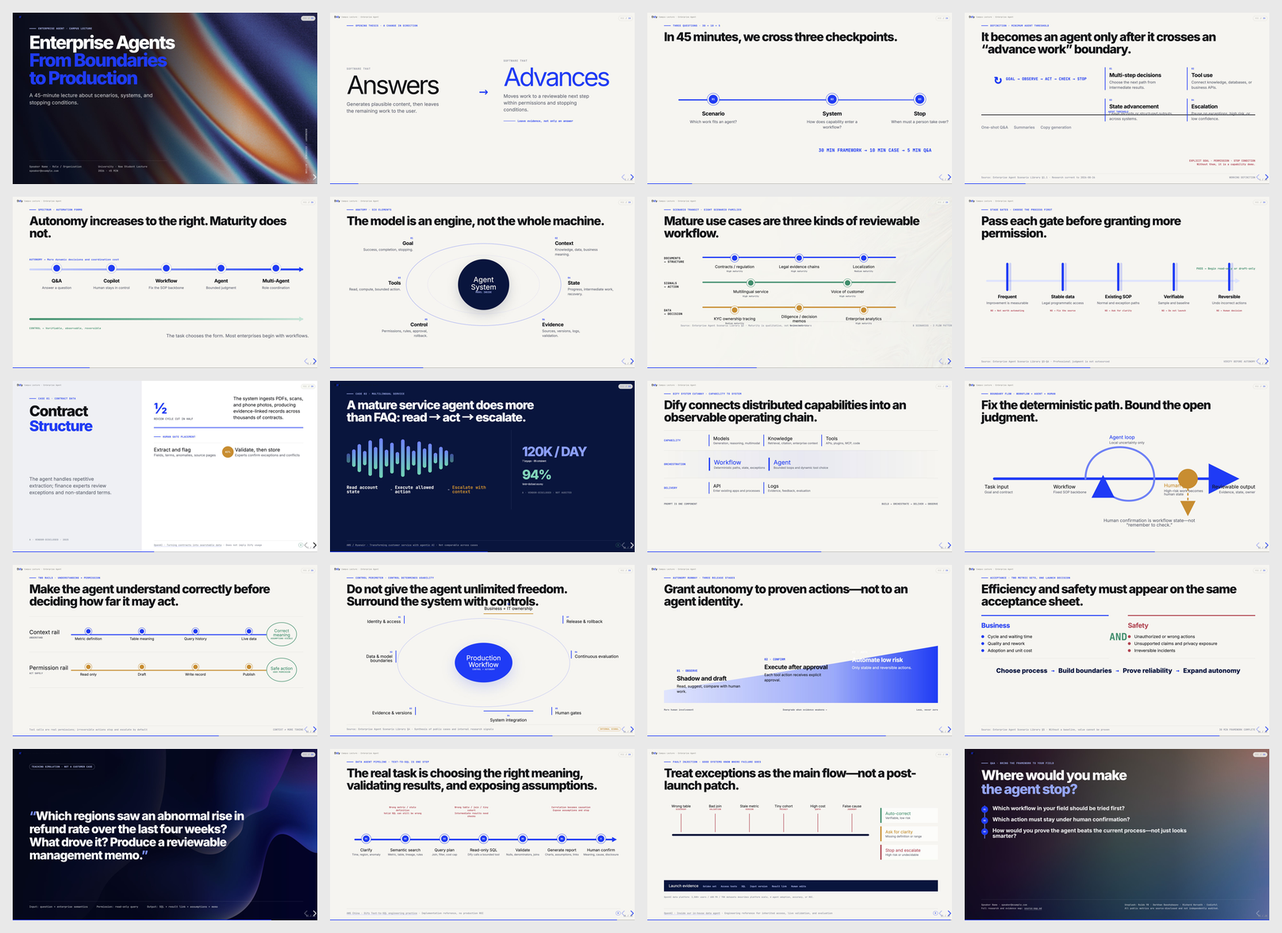
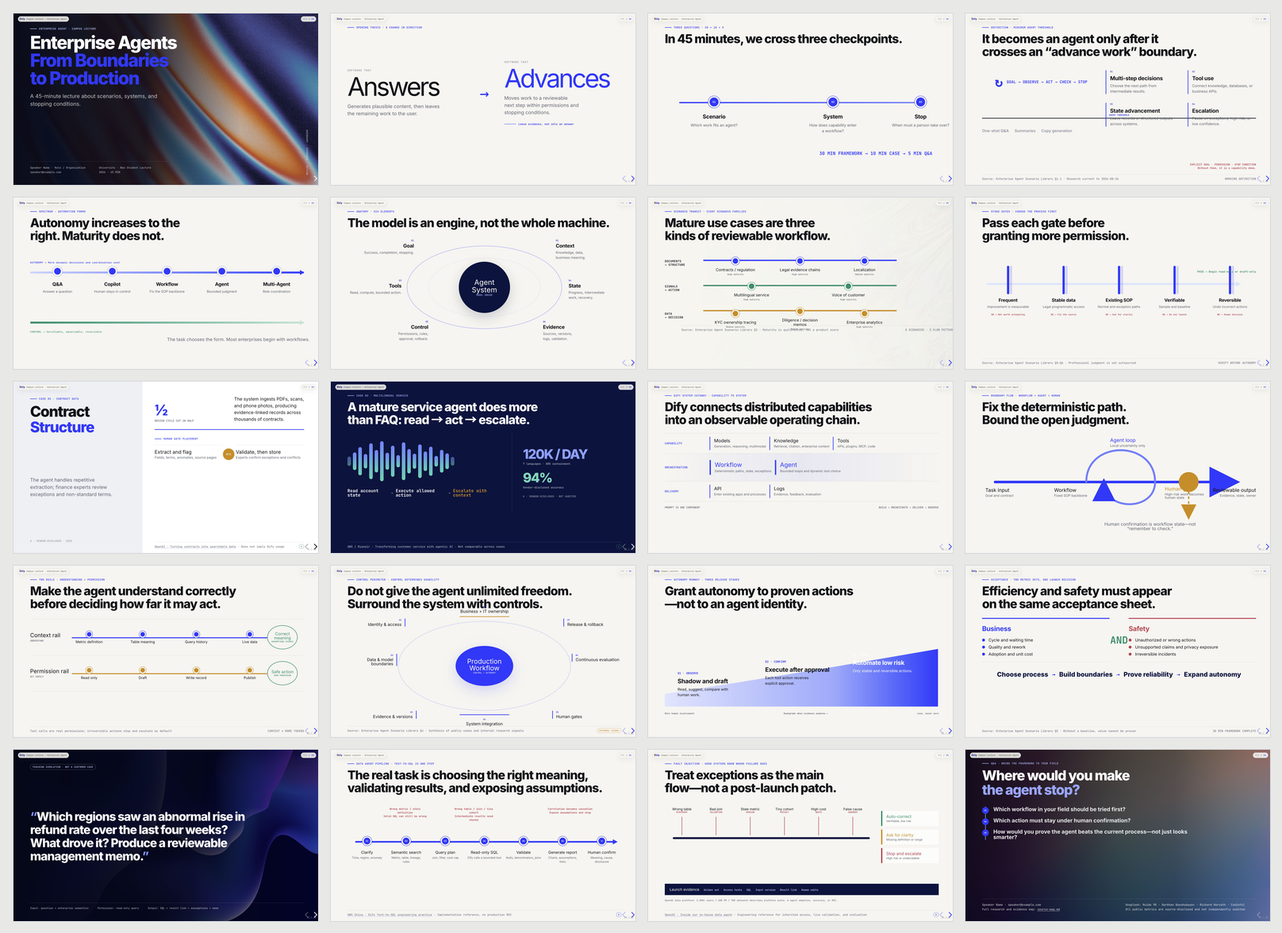
Polish enterprise agent lecture UI and motion

diff --git a/enterprise-agent-campus/styles.css b/enterprise-agent-campus/styles.css
@@ -14,47 +14,62 @@
   --red: #c13a4f;
   --mono: "JetBrains Mono", ui-monospace, monospace;
   --sans: "Inter", "Noto Sans SC", system-ui, sans-serif;
+  --ease-out: cubic-bezier(.22, 1, .36, 1);
+  --page-x: 104px;
+  --page-top: 84px;
+  --page-bottom: 72px;
 }
 
 * { box-sizing: border-box; }
 html, body { width: 100%; height: 100%; margin: 0; overflow: hidden; background: var(--paper); }
-body { font-family: var(--sans); }
+body {
+  font-family: var(--sans);
+  font-feature-settings: "kern" 1, "liga" 1, "calt" 1;
+  -webkit-font-smoothing: antialiased;
+  text-rendering: optimizeLegibility;
+}
 a { color: inherit; }
 
 .deck-brand, .lang-switch {
-  position: fixed; z-index: 40; top: 20px; display: flex; align-items: center; gap: 10px;
-  font: 11px/1 var(--mono); letter-spacing: .04em; color: rgba(17, 19, 24, .56);
+  position: fixed; z-index: 40; top: 22px; display: flex; align-items: center; gap: 10px;
+  border: 1px solid rgba(17,19,24,.12); border-radius: 999px;
+  background: rgba(246,245,240,.88); box-shadow: 0 8px 30px rgba(7,21,64,.06);
+  backdrop-filter: blur(16px); -webkit-backdrop-filter: blur(16px);
+  font: 600 12px/1 var(--mono); letter-spacing: .035em; color: rgba(17, 19, 24, .64);
 }
-.deck-brand { left: 28px; }
-.deck-brand img { width: 34px; height: auto; }
-.lang-switch { right: 28px; padding: 9px 12px; border: 1px solid var(--line); border-radius: 999px; background: rgba(246,245,240,.84); backdrop-filter: blur(14px); }
+.deck-brand { left: 28px; padding: 8px 13px 8px 10px; }
+.deck-brand img { width: 32px; height: 16px; object-fit: contain; }
+.lang-switch { right: 28px; padding: 10px 13px; }
 .lang-switch a { text-decoration: none; opacity: .48; }
 .lang-switch a.active { opacity: 1; color: var(--blue); }
 
 .reveal { color: var(--ink); font-family: var(--sans); }
 .reveal .slides { text-align: left; }
-.reveal .slides section { width: 1920px; height: 1080px; padding: 74px 104px 70px; overflow: hidden; background: var(--paper); }
+.reveal .slides section { width: 1920px; height: 1080px; padding: var(--page-top) var(--page-x) var(--page-bottom); overflow: hidden; background: var(--paper); }
 .reveal h1, .reveal h2, .reveal h3, .reveal p, .reveal blockquote { margin: 0; color: inherit; font-family: var(--sans); text-transform: none; text-shadow: none; }
-.reveal h1 { font-size: 104px; line-height: .98; font-weight: 780; letter-spacing: -.058em; }
-.reveal h2 { max-width: 1640px; font-size: 76px; line-height: 1.02; font-weight: 760; letter-spacing: -.048em; }
-.reveal h3 { font-size: 34px; line-height: 1.12; font-weight: 700; letter-spacing: -.025em; }
-.reveal p { font-size: 30px; line-height: 1.42; }
+.reveal h1 { font-size: 104px; line-height: 1.01; font-weight: 780; letter-spacing: -.048em; text-wrap: balance; }
+.reveal h2 { max-width: 1640px; font-size: 76px; line-height: 1.06; font-weight: 760; letter-spacing: -.04em; text-wrap: balance; }
+.reveal h3 { font-size: 34px; line-height: 1.18; font-weight: 700; letter-spacing: -.018em; text-wrap: balance; }
+.reveal p { font-size: 30px; line-height: 1.5; text-wrap: pretty; }
 .reveal .blue { color: var(--blue); }
 .reveal .green { color: var(--green); }
 .reveal .amber { color: var(--amber); }
 .reveal .red { color: var(--red); }
 .reveal .muted { color: var(--muted); }
 
-.eyebrow { display: flex; align-items: center; gap: 14px; margin-bottom: 24px; color: var(--blue); font: 700 15px/1 var(--mono); letter-spacing: .08em; text-transform: uppercase; }
+.eyebrow { display: flex; align-items: center; gap: 14px; margin-bottom: 22px; color: var(--blue); font: 700 16px/1 var(--mono); letter-spacing: .075em; text-transform: uppercase; }
 .eyebrow::before { content: ""; width: 42px; height: 3px; background: currentColor; }
-.micro { color: var(--quiet); font: 500 15px/1.45 var(--mono); letter-spacing: .02em; }
-.source-bar { position: absolute; left: 104px; right: 104px; bottom: 32px; display: flex; align-items: center; justify-content: space-between; gap: 30px; padding-top: 14px; border-top: 1px solid var(--line); color: var(--quiet); font: 500 15px/1.3 var(--mono); }
+.micro { color: var(--quiet); font: 500 16px/1.5 var(--mono); letter-spacing: .018em; }
+.source-bar { position: absolute; left: var(--page-x); right: var(--page-x); bottom: 30px; display: flex; align-items: center; justify-content: space-between; gap: 30px; padding-top: 13px; border-top: 1px solid var(--line); color: #727986; font: 500 18px/1.4 var(--mono); }
+.source-bar > span:first-child { max-width: 1500px; }
 .source-bar a { text-decoration-color: rgba(20,60,255,.35); text-underline-offset: 3px; }
-.evidence { flex: 0 0 auto; padding: 6px 10px; border: 1px solid currentColor; border-radius: 999px; font: 700 12px/1 var(--mono); letter-spacing: .06em; text-transform: uppercase; }
+.evidence { flex: 0 0 auto; padding: 7px 11px; border: 1px solid currentColor; border-radius: 999px; font: 700 13px/1 var(--mono); letter-spacing: .06em; text-transform: uppercase; }
 .evidence-a { color: var(--green); }
 .evidence-b { color: var(--blue); }
 .evidence-internal { color: var(--amber); }
-.vendor-note { color: var(--quiet); font: 600 14px/1.3 var(--mono); text-transform: uppercase; letter-spacing: .05em; }
+.vendor-note { color: var(--quiet); font: 600 15px/1.35 var(--mono); text-transform: uppercase; letter-spacing: .05em; }
+.vendor-note.on-dark { color: rgba(255,255,255,.62); }
+.service-disclosure { margin-top: 34px; }
 
 /* 01 — cover */
 .cover-slide { padding: 0 !important; background: #060b1d !important; color: white; }
@@ -62,11 +77,11 @@ a { color: inherit; }
 .cover-slide .photo-bg { object-position: 56% center; filter: saturate(.88) contrast(1.06); }
 .cover-shade { position: absolute; inset: 0; background: linear-gradient(90deg, rgba(4,8,25,.98) 0%, rgba(4,8,25,.89) 43%, rgba(4,8,25,.18) 74%, rgba(4,8,25,.24) 100%); }
 .cover-content { position: relative; z-index: 2; display: flex; flex-direction: column; justify-content: space-between; height: 100%; padding: 92px 104px 70px; }
-.cover-content h1 { width: 1020px; font-size: 114px; }
-.cover-content .subtitle { width: 900px; margin-top: 32px; color: rgba(255,255,255,.72); font-size: 32px; }
+.cover-content h1 { width: 1040px; font-size: 112px; line-height: .99; letter-spacing: -.045em; }
+.cover-content .subtitle { width: 920px; margin-top: 34px; color: rgba(255,255,255,.76); font-size: 33px; line-height: 1.46; }
 .cover-content .eyebrow { color: #b8c5ff; }
 .cover-meta { display: grid; grid-template-columns: 1fr 1fr; width: 860px; padding-top: 24px; border-top: 1px solid rgba(255,255,255,.24); }
-.cover-meta p { color: rgba(255,255,255,.58); font: 500 16px/1.65 var(--mono); }
+.cover-meta p { color: rgba(255,255,255,.64); font: 500 17px/1.65 var(--mono); }
 .cover-axis { position: absolute; right: 78px; bottom: 66px; color: rgba(255,255,255,.7); font: 600 14px/1 var(--mono); letter-spacing: .12em; writing-mode: vertical-rl; }
 
 /* 02 — thesis bridge */
@@ -204,22 +219,22 @@ a { color: inherit; }
 .service-stats { display: flex; flex-direction: column; justify-content: center; border-left: 1px solid rgba(255,255,255,.2); padding-left: 68px; }
 .service-stats .big { color: #86a0ff; font-size: 82px; line-height: .95; font-weight: 780; letter-spacing: -.055em; }
 .service-stats .big + .big { margin-top: 36px; color: #62d7b8; }
-.service-stats small { display: block; margin-top: 10px; color: rgba(255,255,255,.6); font: 600 16px/1.35 var(--mono); }
-.service-slide .source-bar { color: rgba(255,255,255,.52); border-color: rgba(255,255,255,.18); }
+.service-stats small { display: block; margin-top: 10px; color: rgba(255,255,255,.66); font: 600 17px/1.4 var(--mono); letter-spacing: 0; }
+.service-slide .source-bar { color: rgba(255,255,255,.68); border-color: rgba(255,255,255,.24); }
 
 /* 11 — Dify cutaway */
 .cutaway { margin-top: 44px; }
 .cutaway-band { display: grid; grid-template-columns: 280px 1fr; min-height: 126px; border-top: 1px solid var(--line); }
 .cutaway-band:last-child { border-bottom: 1px solid var(--line); }
-.band-label { display: flex; align-items: center; color: var(--blue); font: 700 16px/1.2 var(--mono); letter-spacing: .05em; }
+.band-label { display: flex; align-items: center; color: var(--blue); font: 700 17px/1.25 var(--mono); letter-spacing: .045em; }
 .band-nodes { display: flex; align-items: center; gap: 22px; }
 .band-node { position: relative; padding: 10px 0 10px 24px; border-left: 4px solid var(--blue); min-width: 220px; }
 .band-node strong { display: block; font-size: 29px; }
-.band-node span { display: block; margin-top: 6px; color: var(--muted); font-size: 18px; }
+.band-node span { display: block; margin-top: 7px; color: var(--muted); font-size: 20px; line-height: 1.38; }
 .cutaway-band.core { min-height: 174px; background: linear-gradient(90deg, transparent, rgba(20,60,255,.07), transparent); }
 .cutaway-band.core .band-node { border-left-width: 8px; }
 .cutaway-band.core .band-node strong { font-size: 38px; color: var(--blue); }
-.cutaway-caption { margin-top: 30px; display: flex; justify-content: space-between; color: var(--muted); font: 600 15px/1 var(--mono); }
+.cutaway-caption { margin-top: 30px; display: flex; justify-content: space-between; color: var(--muted); font: 600 16px/1 var(--mono); }
 
 /* 12 — boundary flow */
 .boundary-canvas { position: relative; height: 650px; margin-top: 24px; }
@@ -308,15 +323,15 @@ a { color: inherit; }
 .case-contract span { color: rgba(255,255,255,.62); font: 600 16px/1.45 var(--mono); }
 
 /* 18 — analysis pipeline */
-.pipeline { position: relative; height: 535px; margin-top: 44px; }
+.pipeline { position: relative; height: 535px; margin-top: 38px; }
 .pipeline-line { position: absolute; left: 48px; right: 48px; top: 254px; height: 10px; background: var(--blue); border-radius: 999px; }
 .pipeline-line::after { content: ""; position: absolute; right: -25px; top: -11px; border-left: 30px solid var(--blue); border-top: 16px solid transparent; border-bottom: 16px solid transparent; }
 .pipeline-nodes { position: absolute; inset: 0; display: grid; grid-template-columns: repeat(7,1fr); }
 .pipeline-node { text-align: center; }
 .pipeline-node .pipe-dot { width: 58px; height: 58px; display: grid; place-items: center; margin: 225px auto 30px; border: 8px solid var(--paper); border-radius: 50%; background: var(--blue); color: white; font: 700 13px/1 var(--mono); box-shadow: 0 0 0 2px var(--blue); }
 .pipeline-node strong { display: block; font-size: 24px; }
-.pipeline-node span { display: block; max-width: 220px; margin: 8px auto 0; color: var(--muted); font-size: 17px; }
-.pipeline-break { position: absolute; top: 46px; width: 260px; color: var(--red); font: 700 14px/1.35 var(--mono); text-align: center; }
+.pipeline-node span { display: block; max-width: 220px; margin: 9px auto 0; color: var(--muted); font-size: 18px; line-height: 1.38; }
+.pipeline-break { position: absolute; top: 42px; width: 280px; color: var(--red); font: 700 16px/1.42 var(--mono); text-align: center; }
 .pb1 { left: 220px; }
 .pb2 { left: 650px; }
 .pb3 { right: 180px; }
@@ -328,7 +343,7 @@ a { color: inherit; }
 .fault { position: relative; text-align: center; }
 .fault::after { content: ""; display: block; width: 3px; height: 116px; margin: 20px auto 0; background: var(--red); }
 .fault strong { display: block; font-size: 21px; }
-.fault span { color: var(--red); font: 700 12px/1.25 var(--mono); }
+.fault span { color: var(--red); font: 700 13px/1.3 var(--mono); }
 .fault-exits { position: absolute; right: 0; top: 88px; width: 360px; display: grid; gap: 22px; }
 .fault-exit { padding: 22px 24px; border-left: 8px solid var(--exit); background: rgba(255,255,255,.72); }
 .fault-exit strong { display: block; color: var(--exit); font-size: 26px; }
@@ -338,31 +353,119 @@ a { color: inherit; }
 .exit-stop { --exit: var(--red); }
 .audit-trace { position: absolute; left: 0; right: 0; bottom: 36px; padding: 24px 30px; background: var(--blue-deep); color: white; }
 .audit-trace strong { font-size: 23px; }
-.audit-trace span { margin-left: 28px; color: #b9c6ff; font: 600 14px/1 var(--mono); }
-.platform-boundary { position: absolute; left: 0; bottom: -6px; color: var(--quiet); font: 600 13px/1 var(--mono); }
+.audit-trace span { margin-left: 28px; color: #c7d1ff; font: 600 16px/1 var(--mono); }
+.platform-boundary { position: absolute; left: 0; bottom: -6px; color: #737a87; font: 600 15px/1.25 var(--mono); }
 
 /* 20 — closing */
 .closing-slide { padding: 0 !important; background: #070b1b !important; color: white; }
 .closing-slide .photo-bg { filter: saturate(.95) contrast(1.03); }
 .closing-shade { position: absolute; inset: 0; background: linear-gradient(90deg, rgba(5,8,24,.94), rgba(5,8,24,.68) 68%, rgba(5,8,24,.38)); }
 .closing-content { position: relative; z-index: 2; height: 100%; padding: 82px 104px 64px; display: flex; flex-direction: column; }
-.closing-content h2 { color: white; font-size: 86px; }
+.closing-content h2 { color: white; font-size: 86px; line-height: 1.04; }
+.closing-content .closing-eyebrow { color: #a9b9ff; }
+.closing-content .closing-accent { color: #91a6ff; }
 .qa-path { position: relative; margin-top: 42px; padding-left: 70px; }
 .qa-path::before { content: ""; position: absolute; left: 19px; top: 18px; bottom: 18px; width: 4px; background: #7590ff; }
 .qa-question { position: relative; max-width: 1360px; padding: 18px 0; color: rgba(255,255,255,.9); font-size: 34px; font-weight: 650; }
 .qa-question::before { content: attr(data-index); position: absolute; left: -70px; top: 22px; width: 42px; height: 42px; display: grid; place-items: center; border-radius: 50%; background: var(--blue); color: white; font: 700 12px/1 var(--mono); }
 .closing-meta { margin-top: auto; display: grid; grid-template-columns: 1fr 1fr; gap: 80px; padding-top: 22px; border-top: 1px solid rgba(255,255,255,.22); }
-.closing-meta p, .closing-meta a { color: rgba(255,255,255,.62); font: 600 14px/1.6 var(--mono); }
+.closing-meta p, .closing-meta a { color: rgba(255,255,255,.7); font: 600 18px/1.58 var(--mono); }
 .closing-meta a { text-underline-offset: 4px; }
 
 .reveal .slide-number { right: 24px; bottom: 18px; color: var(--quiet); background: transparent; font: 600 12px/1 var(--mono); }
 .reveal .progress { height: 4px; color: var(--blue); }
 .reveal .controls { color: var(--blue); }
-.reveal .fragment.fade-up { transform: translateY(18px); }
-.reveal .fragment.fade-up.visible { transform: translateY(0); }
+
+/* Motion — reveal the reading path, never carry unique information */
+.reveal .fragment {
+  transition-property: opacity, transform, filter !important;
+  transition-duration: .46s !important;
+  transition-timing-function: var(--ease-out) !important;
+  will-change: opacity, transform, filter;
+}
+.reveal .fragment.fade-up { transform: translateY(24px); filter: blur(2px); }
+.reveal .fragment.fade-up.visible { transform: translateY(0); filter: blur(0); }
+.reveal .thesis-bridge .fragment.fade-up,
+.reveal .transit-route.fragment.fade-up,
+.reveal .cutaway-band.fragment.fade-up,
+.reveal .fault-exits.fragment.fade-up,
+.reveal .qa-question.fragment.fade-up { transform: translateX(-26px); filter: blur(2px); }
+.reveal .thesis-bridge .fragment.fade-up.visible,
+.reveal .transit-route.fragment.fade-up.visible,
+.reveal .cutaway-band.fragment.fade-up.visible,
+.reveal .fault-exits.fragment.fade-up.visible,
+.reveal .qa-question.fragment.fade-up.visible { transform: translateX(0); filter: blur(0); }
+.reveal .stage-gate.fragment.fade-up,
+.reveal .control-node.fragment.fade-up { transform: translateY(18px) scale(.97); }
+.reveal .stage-gate.fragment.fade-up.visible,
+.reveal .control-node.fragment.fade-up.visible { transform: translateY(0) scale(1); }
+.reveal .control-node.cn4.fragment.fade-up,
+.reveal .control-node.cn8.fragment.fade-up { transform: translateX(-50%) translateY(18px) scale(.97); }
+.reveal .control-node.cn4.fragment.fade-up.visible,
+.reveal .control-node.cn8.fragment.fade-up.visible { transform: translateX(-50%) translateY(0) scale(1); }
+
+.reveal .slides section.present > .eyebrow,
+.reveal .slides section.present > h2,
+.reveal .cover-slide.present .cover-content > div:first-child,
+.reveal .editorial-case.present .editorial-lead > div:first-child,
+.reveal .data-case-slide.present .data-prompt,
+.reveal .closing-slide.present .closing-content > h2 {
+  animation: heading-in .56s var(--ease-out) both;
+}
+.reveal .slides section.present > h2,
+.reveal .data-case-slide.present .data-prompt,
+.reveal .closing-slide.present .closing-content > h2 { animation-delay: .06s; }
+.reveal .journey-line,
+.reveal .spectrum-rail,
+.reveal .control-rail,
+.reveal .gate-path,
+.reveal .pipeline-line,
+.reveal .fault-mainline { transform-origin: left center; }
+.reveal .present .journey-line,
+.reveal .present .spectrum-rail,
+.reveal .present .control-rail,
+.reveal .present .gate-path,
+.reveal .present .pipeline-line,
+.reveal .present .fault-mainline { animation: path-grow .72s var(--ease-out) both; }
+.reveal .present .control-orbit { animation: orbit-in .7s var(--ease-out) both; }
+.reveal .present .runway-shape { animation: runway-in .82s var(--ease-out) both; transform-origin: left bottom; }
+.reveal .service-slide.present .waveform span { animation: wave-in .55s var(--ease-out) both; transform-origin: center; }
+.reveal .service-slide.present .waveform span:nth-child(3n+1) { animation-delay: .04s; }
+.reveal .service-slide.present .waveform span:nth-child(3n+2) { animation-delay: .1s; }
+.reveal .service-slide.present .waveform span:nth-child(3n) { animation-delay: .16s; }
+
+@keyframes heading-in {
+  from { opacity: 0; transform: translateY(16px); filter: blur(3px); }
+  to { opacity: 1; transform: translateY(0); filter: blur(0); }
+}
+@keyframes path-grow {
+  from { transform: scaleX(.04); opacity: .3; }
+  to { transform: scaleX(1); opacity: 1; }
+}
+@keyframes orbit-in {
+  from { opacity: 0; transform: translate(-50%,-50%) scale(.9); }
+  to { opacity: 1; transform: translate(-50%,-50%) scale(1); }
+}
+@keyframes runway-in {
+  from { opacity: 0; transform: scaleX(.18); }
+  to { opacity: 1; transform: scaleX(1); }
+}
+@keyframes wave-in {
+  from { opacity: 0; transform: scaleY(.12); }
+  to { opacity: var(--o, 1); transform: scaleY(1); }
+}
 
 @media (max-width: 900px) { .deck-brand span { display: none; } }
+@media (prefers-reduced-motion: reduce) {
+  .reveal *, .reveal *::before, .reveal *::after {
+    animation-duration: .001ms !important;
+    animation-delay: 0ms !important;
+    transition-duration: .001ms !important;
+    scroll-behavior: auto !important;
+  }
+}
 @media print {
   .deck-brand, .lang-switch { display: none !important; }
-  .reveal .fragment { opacity: 1 !important; visibility: visible !important; transform: none !important; }
+  .reveal *, .reveal *::before, .reveal *::after { animation: none !important; transition: none !important; }
+  .reveal .fragment { opacity: 1 !important; visibility: visible !important; transform: none !important; filter: none !important; }
 }

diff --git a/enterprise-agent-campus/index_en.html b/enterprise-agent-campus/index_en.html
@@ -10,7 +10,7 @@
   <link rel="preconnect" href="https://fonts.googleapis.com">
   <link rel="preconnect" href="https://fonts.gstatic.com" crossorigin>
   <link href="https://fonts.googleapis.com/css2?family=Inter:wght@400;500;600;700;800&amp;family=Noto+Sans+SC:wght@400;500;600;700;800&amp;family=JetBrains+Mono:wght@400;500;600;700&amp;display=swap" rel="stylesheet">
-  <link rel="stylesheet" href="styles.css?v=20260826b">
+  <link rel="stylesheet" href="styles.css?v=20260826c">
 </head>
 <body>
   <div class="deck-brand"><img src="../assets/logo.svg" alt="Dify"><span>Campus Lecture · Enterprise Agent</span></div>
@@ -185,7 +185,7 @@
             <div class="waveform" aria-label="Abstract waveform representing multilingual customer requests"><span style="--h:58px;--o:.55"></span><span style="--h:110px"></span><span style="--h:176px"></span><span style="--h:90px"></span><span style="--h:224px"></span><span style="--h:140px"></span><span style="--h:250px"></span><span style="--h:106px"></span><span style="--h:194px"></span><span style="--h:76px"></span><span style="--h:236px"></span><span style="--h:152px"></span><span style="--h:94px"></span><span style="--h:210px"></span><span style="--h:122px"></span><span style="--h:182px"></span><span style="--h:66px"></span><span style="--h:142px"></span><span style="--h:98px"></span><span style="--h:54px;--o:.55"></span></div>
             <div class="service-flow fragment fade-up" data-fragment-index="0"><b>Read account state</b><span>→</span><b>Execute allowed action</b><span>→</span><b class="amber">Escalate with context</b></div>
           </div>
-          <div class="service-stats fragment fade-up" data-fragment-index="1"><div class="big">120K / DAY<small>7 languages · 80% containment</small></div><div class="big">94%<small>Vendor-disclosed accuracy</small></div><span class="vendor-note" style="margin-top:34px;color:rgba(255,255,255,.48)">A · VENDOR-DISCLOSED · NOT AUDITED</span></div>
+          <div class="service-stats fragment fade-up" data-fragment-index="1"><div class="big">120K / DAY<small>7 languages · 80% containment</small></div><div class="big">94%<small>Vendor-disclosed accuracy</small></div><span class="vendor-note on-dark service-disclosure">A · VENDOR-DISCLOSED · NOT AUDITED</span></div>
         </div>
         <div class="source-bar"><span><a href="https://aws.amazon.com/solutions/case-studies/innovators/ryanair-agentic-ai/" target="_blank" rel="noopener">AWS / Ryanair · Transforming customer service with agentic AI</a> · Not comparable across cases</span><span class="evidence evidence-a">A</span></div>
         <aside class="notes">Time 2:30. Core delivery: service agents require account state, bounded actions, continuous evaluation, and complete handoff—not only FAQ retrieval. Term: containment is the share of conversations completed without human takeover under the source's definition. Transition: both cases show that capability must enter a system. Evidence boundary: all numbers are disclosed by AWS/Ryanair, not independently audited, and do not imply Dify usage.</aside>
@@ -297,8 +297,8 @@
       <section class="closing-slide" data-slide-id="s20-qa-sources">
         <img class="photo-bg" src="assets/atmos-pastel-codioful.jpg" alt="Soft pastel gradient by Codioful on Unsplash"><div class="closing-shade"></div>
         <div class="closing-content">
-          <div class="eyebrow" style="color:#a9b9ff">Q&amp;A · Bring the Framework to Your Field</div>
-          <h2>Where would you make<br><span style="color:#91a6ff">the agent stop?</span></h2>
+          <div class="eyebrow closing-eyebrow">Q&amp;A · Bring the Framework to Your Field</div>
+          <h2>Where would you make<br><span class="closing-accent">the agent stop?</span></h2>
           <div class="qa-path"><div class="qa-question fragment fade-up" data-index="01" data-fragment-index="0">Which workflow in your field should be tried first?</div><div class="qa-question fragment fade-up" data-index="02" data-fragment-index="1">Which action must stay under human confirmation?</div><div class="qa-question fragment fade-up" data-index="03" data-fragment-index="2">How would you prove the agent beats the current process—not just looks smarter?</div></div>
           <div class="closing-meta"><p>Speaker Name · speaker@example.com<br>Full research and evidence map: <a href="source-map.md" target="_blank">source-map.md</a></p><p>Unsplash: Ruido 98 · Darkhan Basshybayev · Richard Horvath · Codioful<br>All public metrics are source-disclosed and not independently audited.</p></div>
         </div>
@@ -311,7 +311,8 @@
   <script src="https://cdn.jsdelivr.net/npm/reveal.js@4.5.0/dist/reveal.js"></script>
   <script src="https://cdn.jsdelivr.net/npm/reveal.js@4.5.0/plugin/notes/notes.js"></script>
   <script>
-    Reveal.initialize({ hash: true, width: 1920, height: 1080, margin: 0, controls: true, progress: true, slideNumber: 'c/t', transition: 'fade', backgroundTransition: 'fade', plugins: [RevealNotes] });
+    const reduceMotion = window.matchMedia('(prefers-reduced-motion: reduce)').matches;
+    Reveal.initialize({ hash: true, width: 1920, height: 1080, margin: 0, controls: true, controlsTutorial: false, progress: true, slideNumber: 'c/t', navigationMode: 'linear', transition: reduceMotion ? 'none' : 'fade', transitionSpeed: 'fast', backgroundTransition: reduceMotion ? 'none' : 'fade', pdfSeparateFragments: false, plugins: [RevealNotes] });
   </script>
 </body>
 </html>

diff --git a/enterprise-agent-campus/index.html b/enterprise-agent-campus/index.html
@@ -10,7 +10,7 @@
   <link rel="preconnect" href="https://fonts.googleapis.com">
   <link rel="preconnect" href="https://fonts.gstatic.com" crossorigin>
   <link href="https://fonts.googleapis.com/css2?family=Inter:wght@400;500;600;700;800&amp;family=Noto+Sans+SC:wght@400;500;600;700;800&amp;family=JetBrains+Mono:wght@400;500;600;700&amp;display=swap" rel="stylesheet">
-  <link rel="stylesheet" href="styles.css?v=20260826b">
+  <link rel="stylesheet" href="styles.css?v=20260826c">
 </head>
 <body>
   <div class="deck-brand"><img src="../assets/logo.svg" alt="Dify"><span>Campus Lecture · Enterprise Agent</span></div>
@@ -225,7 +225,7 @@
           <div class="service-stats fragment fade-up" data-fragment-index="1">
             <div class="big">120K / DAY<small>7 种语言 · 80% containment</small></div>
             <div class="big">94%<small>来源方披露的 accuracy</small></div>
-            <span class="vendor-note" style="margin-top:34px;color:rgba(255,255,255,.48)">A · VENDOR-DISCLOSED · NOT AUDITED</span>
+            <span class="vendor-note on-dark service-disclosure">A · 来源方披露 · 未独立审计</span>
           </div>
         </div>
         <div class="source-bar"><span><a href="https://aws.amazon.com/solutions/case-studies/innovators/ryanair-agentic-ai/" target="_blank" rel="noopener">AWS / Ryanair · Transforming customer service with agentic AI</a> · 指标不可跨案例比较</span><span class="evidence evidence-a">A</span></div>
@@ -404,8 +404,8 @@
         <img class="photo-bg" src="assets/atmos-pastel-codioful.jpg" alt="Codioful 在 Unsplash 发布的柔和渐变">
         <div class="closing-shade"></div>
         <div class="closing-content">
-          <div class="eyebrow" style="color:#a9b9ff">Q&amp;A · 把框架带回你的专业</div>
-          <h2>你会让 Agent<br><span style="color:#91a6ff">在哪里停下来？</span></h2>
+          <div class="eyebrow closing-eyebrow">Q&amp;A · 把框架带回你的专业</div>
+          <h2>你会让 Agent<br><span class="closing-accent">在哪里停下来？</span></h2>
           <div class="qa-path">
             <div class="qa-question fragment fade-up" data-index="01" data-fragment-index="0">你所在专业，最适合先尝试哪一种流程？</div>
             <div class="qa-question fragment fade-up" data-index="02" data-fragment-index="1">哪个动作必须由人确认，不能交给开放循环？</div>
@@ -425,16 +425,21 @@
   <script src="https://cdn.jsdelivr.net/npm/reveal.js@4.5.0/dist/reveal.js"></script>
   <script src="https://cdn.jsdelivr.net/npm/reveal.js@4.5.0/plugin/notes/notes.js"></script>
   <script>
+    const reduceMotion = window.matchMedia('(prefers-reduced-motion: reduce)').matches;
     Reveal.initialize({
       hash: true,
       width: 1920,
       height: 1080,
       margin: 0,
       controls: true,
+      controlsTutorial: false,
       progress: true,
       slideNumber: 'c/t',
-      transition: 'fade',
-      backgroundTransition: 'fade',
+      navigationMode: 'linear',
+      transition: reduceMotion ? 'none' : 'fade',
+      transitionSpeed: 'fast',
+      backgroundTransition: reduceMotion ? 'none' : 'fade',
+      pdfSeparateFragments: false,
       plugins: [RevealNotes]
     });
   </script>

diff --git a/enterprise-agent-campus/README.md b/enterprise-agent-campus/README.md
@@ -36,8 +36,10 @@ python3 -m http.server 8000
 2. 不使用三张以上等权矩形并排；卡片只用于展示真实 UI 对象。
 3. 复杂信息使用连续路径、系统剖面、阶段门、双轨或控制边界表达。
 4. 相邻页面不重复同一几何结构；氛围图只用于封面、场景转场、案例开场和结尾。
-5. 每个复杂页面最多 2–4 轮渐进揭示；动画关闭或打印时信息仍完整。
+5. 每个复杂页面最多 2–4 轮渐进揭示；标题、路径、轨道和波形使用一次性语义入场，不使用持续循环动画。
 6. Dify Blue 表示系统主路径，绿色表示可继续，琥珀表示人工确认，红色表示停止或不可逆风险。
+7. 正文保持 30px 以上，引用与脚注保持 18px 以上；标题使用平衡换行，正文使用自然换行。
+8. `prefers-reduced-motion` 与打印模式会关闭位移、模糊和路径动画；打印固定为 20 页并完整显示所有 fragment。
 
 ## 内容接口
 
